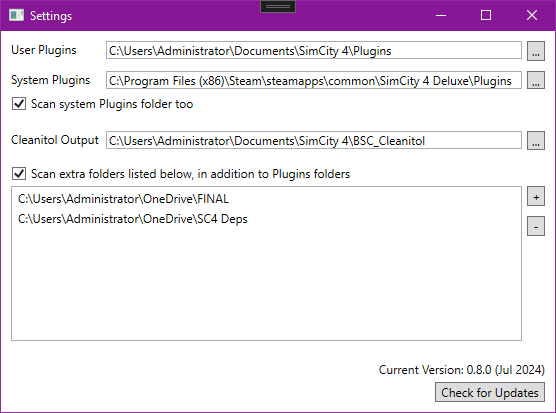
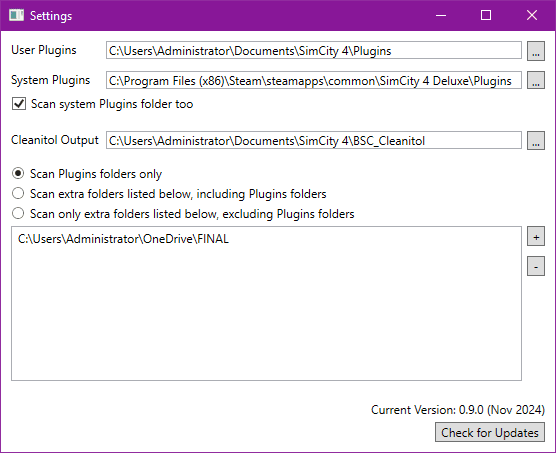
update resources for version 0.9.0

diff --git a/SC4CleanitolWPF/MainWindow.xaml.cs b/SC4CleanitolWPF/MainWindow.xaml.cs
@@ -30,7 +30,7 @@ namespace SC4CleanitolWPF {
         /// </summary>
         public bool DetailedOutput { get; set; } = false;
 
-        internal readonly Version releaseVersion = new Version(0, 8, 1);
+        internal readonly Version releaseVersion = new Version(0, 9, 0);
         internal readonly string releaseDate = "Nov 2024"; 
         private readonly Paragraph log;
         private readonly FlowDocument doc;
